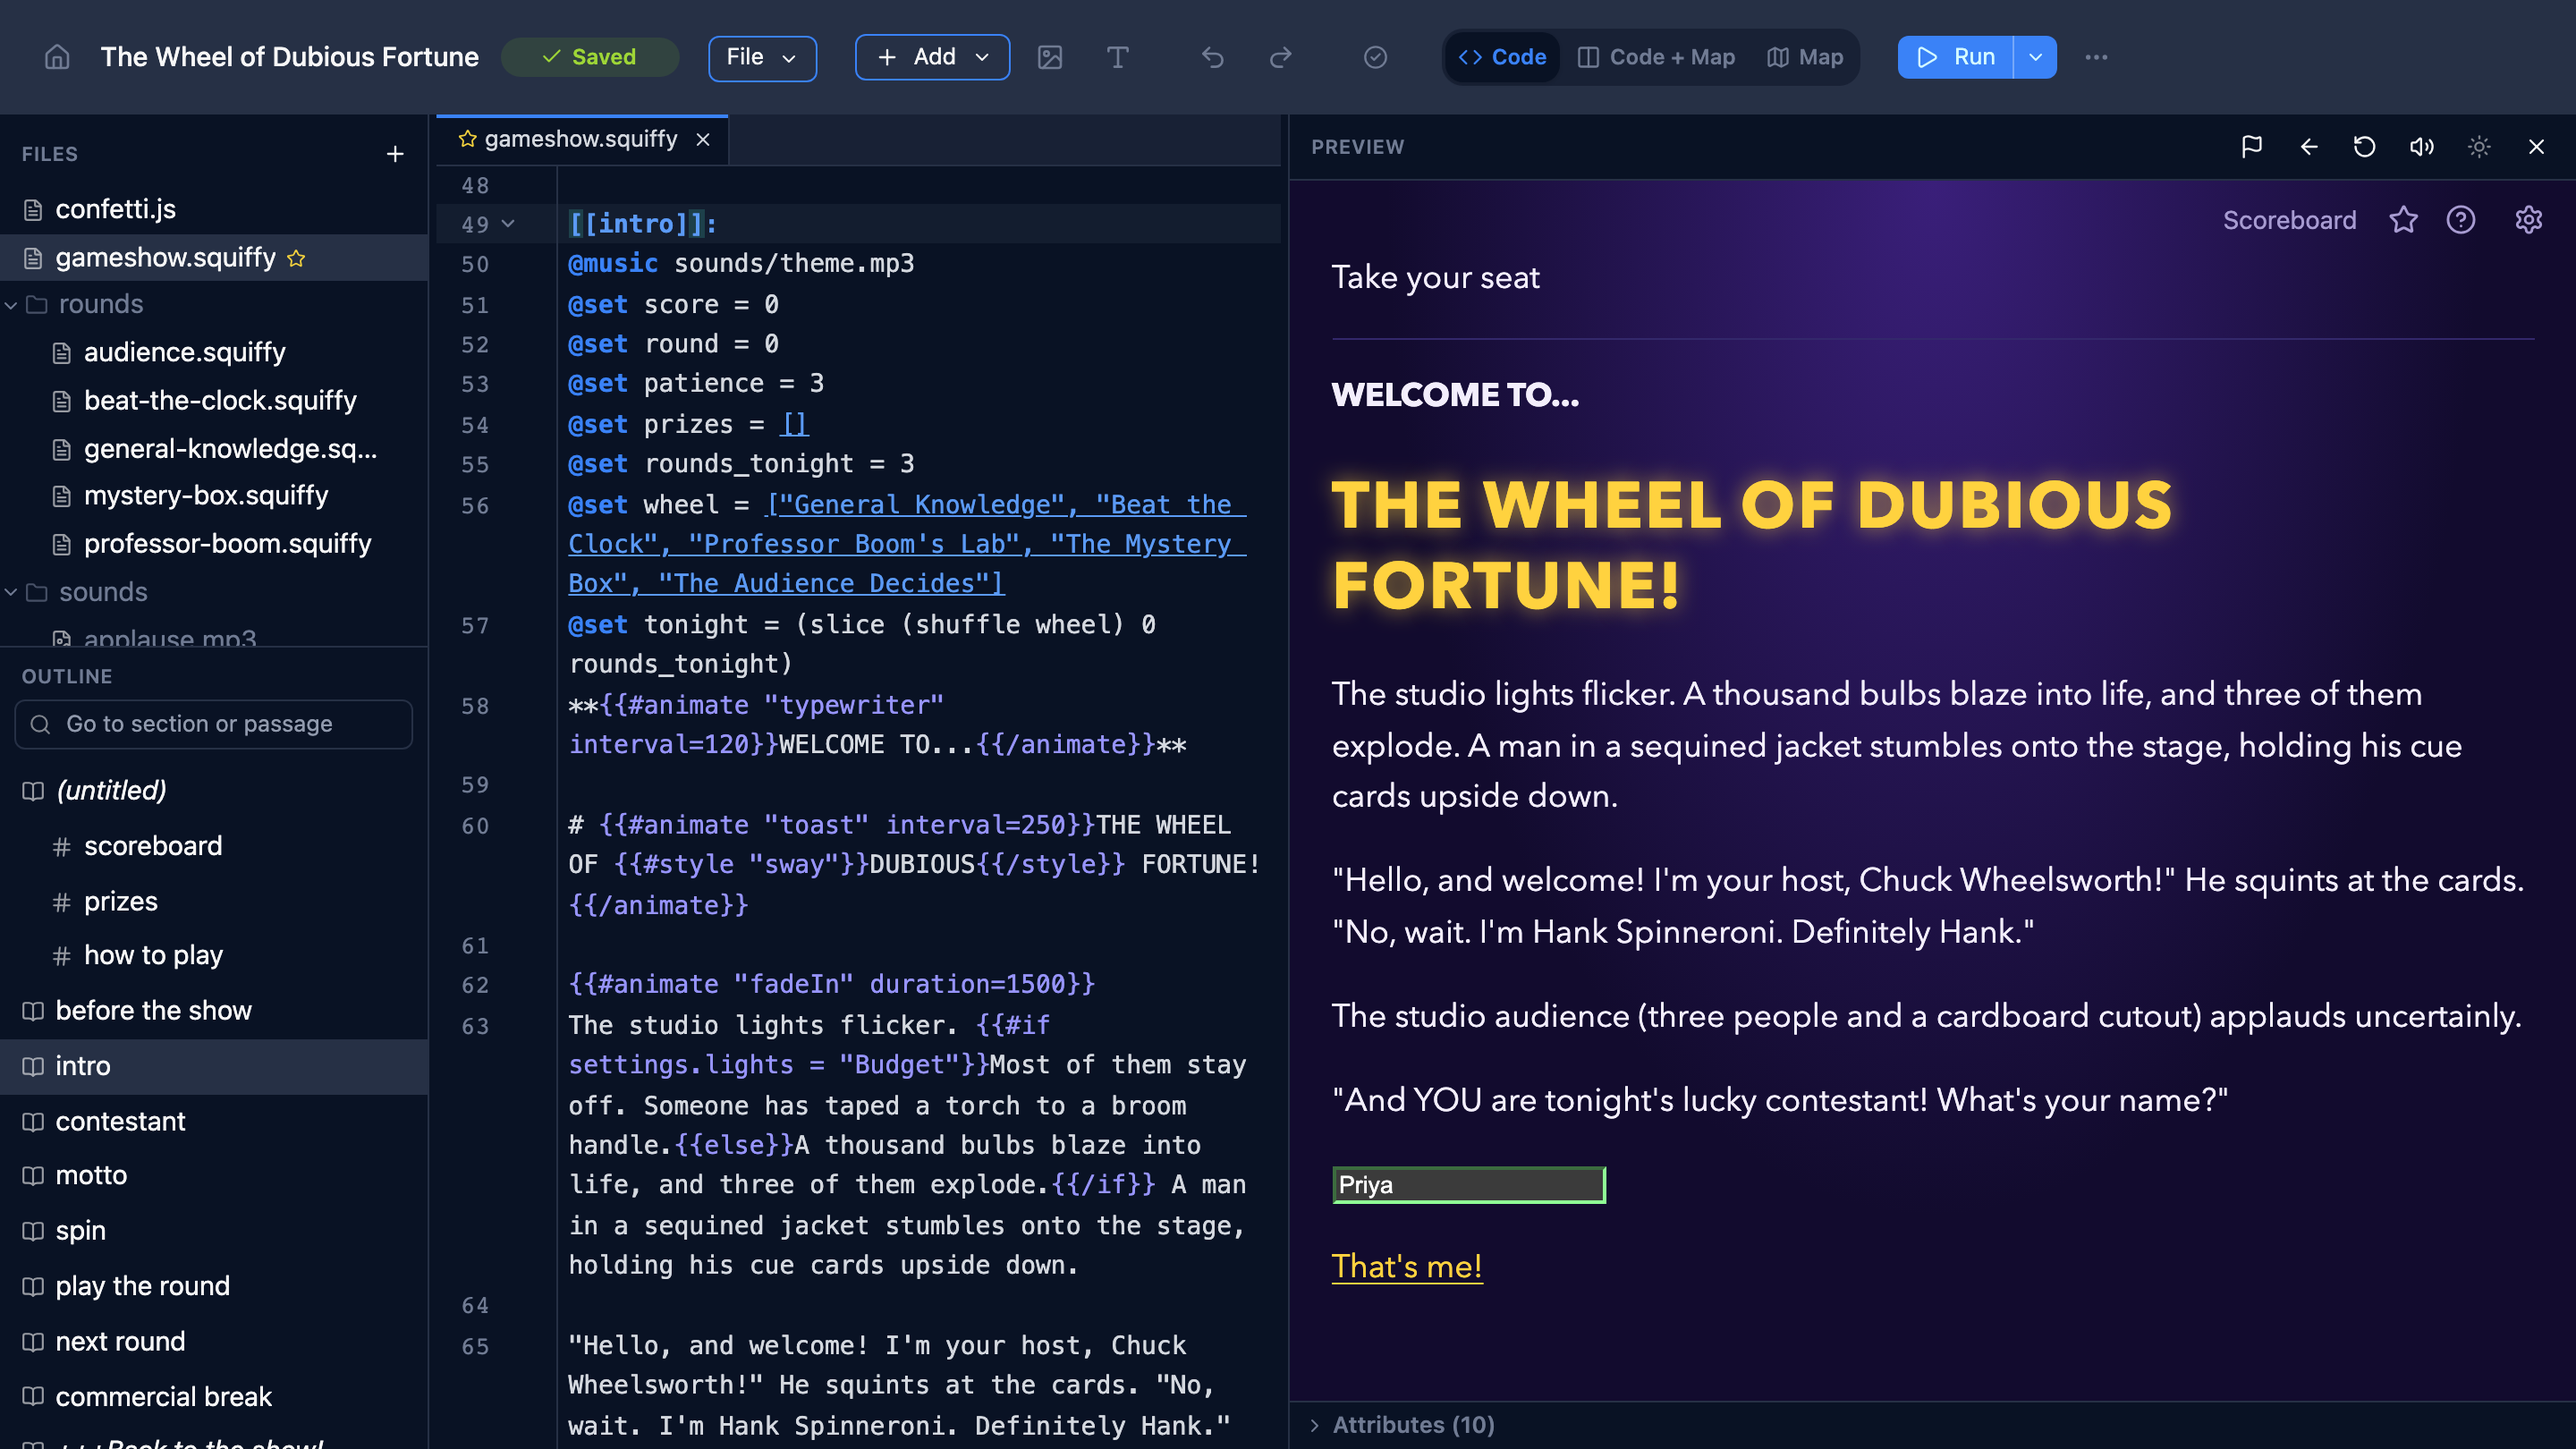
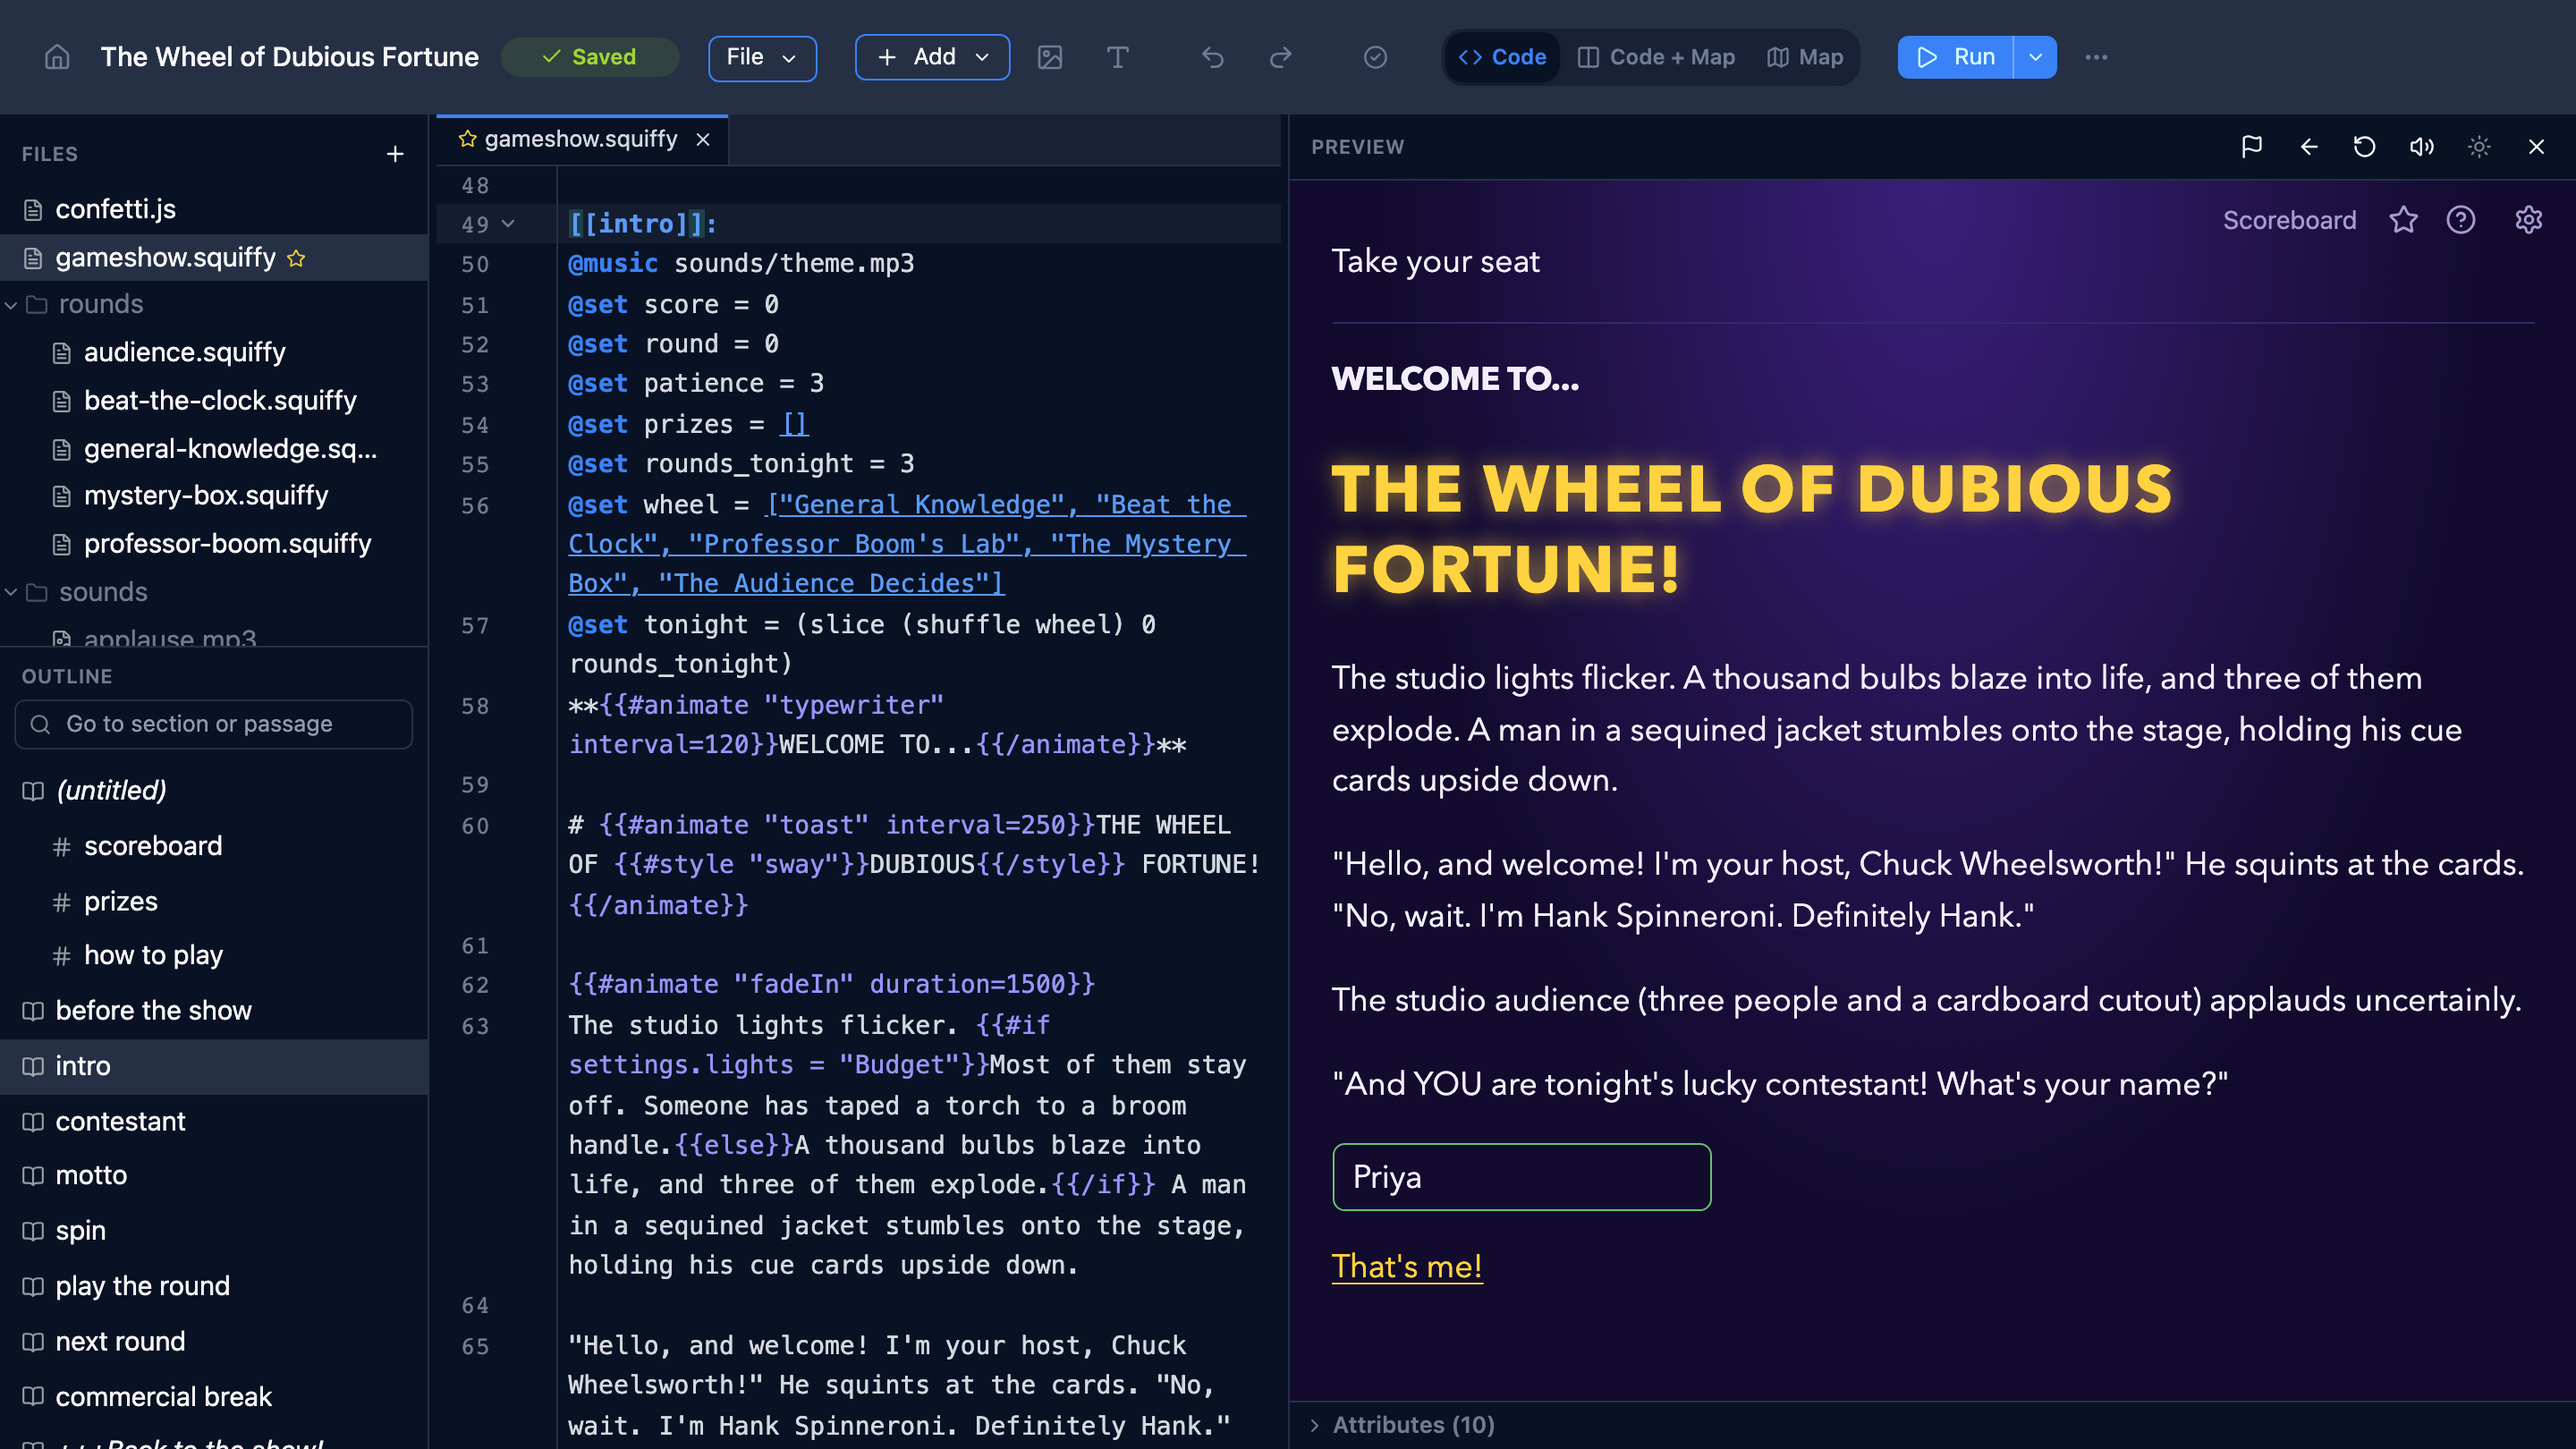
feat(runtime): style story inputs to match the story, and keep password managers out of them (#631)

diff --git a/runtime/src/squiffy.runtime.css b/runtime/src/squiffy.runtime.css
@@ -12,6 +12,8 @@
     --squiffy-muted: light-dark(#6b6f76, #9a9ca3);
     /* The lines between sections */
     --squiffy-border: light-dark(#e2e2e6, #34343a);
+    /* The edges of text boxes, lists and buttons in the story */
+    --squiffy-input-border: light-dark(#8c8f96, #6b6d75);
     --squiffy-link: light-dark(#1d5fd6, #7aa7ff);
     --squiffy-link-hover: light-dark(#0f3f99, #b0cbff);
     --squiffy-error: light-dark(#c62828, #ff7b72);
@@ -72,31 +74,132 @@ a.squiffy-link.validation-disabled
     pointer-events: none;
 }
 
-/* Invalid input field states */
+/* Text boxes, lists and buttons in the story and its panels. Without these, browsers draw them
+   in their own default styles, which don't match the story. The selectors are inside :where(), so
+   a story's own rule, such as "input { border: none; }", overrides them. */
+:where(.squiffy-output-section, .squiffy-panel) :where(
+    input:not([type=checkbox], [type=radio], [type=range], [type=color], [type=file], [type=hidden],
+        [type=button], [type=submit], [type=reset], [type=image]),
+    textarea,
+    select)
+{
+    box-sizing: border-box;
+    max-width: 100%;
+    padding: 0.3em 0.6em;
+    border: 1px solid var(--squiffy-input-border);
+    border-radius: 0.375em;
+    background-color: var(--squiffy-background);
+    color: var(--squiffy-text);
+    font: inherit;
+    line-height: 1.4;
+    transition: border-color 0.15s ease-in-out, box-shadow 0.15s ease-in-out;
+}
+
+:where(.squiffy-output-section, .squiffy-panel) :where(textarea)
+{
+    vertical-align: top;
+    resize: vertical;
+}
+
+:where(.squiffy-output-section, .squiffy-panel) :where(input, textarea)::placeholder
+{
+    color: var(--squiffy-muted);
+    opacity: 1;
+}
+
+/* A drop-down list, with its arrow drawn in the story's colours */
+:where(.squiffy-output-section, .squiffy-panel) :where(select:not([multiple], [size]))
+{
+    appearance: none;
+    padding-right: 2em;
+    background-image: linear-gradient(45deg, transparent 50%, var(--squiffy-muted) 50%),
+        linear-gradient(135deg, var(--squiffy-muted) 50%, transparent 50%);
+    background-position: calc(100% - 1.05em) 55%, calc(100% - 0.75em) 55%;
+    background-size: 0.3em 0.3em;
+    background-repeat: no-repeat;
+    cursor: pointer;
+}
+
+:where(.squiffy-output-section, .squiffy-panel) :where(
+    button, input[type=button], input[type=submit], input[type=reset])
+{
+    padding: 0.3em 0.9em;
+    border: 1px solid var(--squiffy-input-border);
+    border-radius: 0.375em;
+    background-color: color-mix(in srgb, var(--squiffy-text) 5%, var(--squiffy-background));
+    color: var(--squiffy-text);
+    font: inherit;
+    line-height: 1.4;
+    cursor: pointer;
+    transition: background-color 0.15s ease-in-out;
+}
+
+:where(.squiffy-output-section, .squiffy-panel) :where(
+    button, input[type=button], input[type=submit], input[type=reset]):where(:hover:not(:disabled))
+{
+    background-color: color-mix(in srgb, var(--squiffy-text) 12%, var(--squiffy-background));
+}
+
+/* Tick boxes, radio buttons, sliders and progress bars, in the links' colour */
+:where(.squiffy-output-section, .squiffy-panel) :where(
+    input[type=checkbox], input[type=radio], input[type=range], progress, meter)
+{
+    accent-color: var(--squiffy-link);
+}
+
+:where(.squiffy-output-section, .squiffy-panel) :where(input[type=checkbox], input[type=radio])
+{
+    width: 1em;
+    height: 1em;
+    vertical-align: -0.125em;
+}
+
+:where(.squiffy-output-section, .squiffy-panel) :where(input, textarea, select):where(:focus)
+{
+    outline: none;
+    border-color: var(--squiffy-link);
+    box-shadow: 0 0 0 0.2em color-mix(in srgb, var(--squiffy-link) 25%, transparent);
+}
+
+:where(.squiffy-output-section, .squiffy-panel) :where(input[type=checkbox], input[type=radio], input[type=range]):where(:focus),
+:where(.squiffy-output-section, .squiffy-panel) :where(
+    button, input[type=button], input[type=submit], input[type=reset]):where(:focus-visible)
+{
+    box-shadow: none;
+    outline: 2px solid var(--squiffy-link);
+    outline-offset: 2px;
+}
+
+/* Once the player has left a section, its inputs are disabled */
+:where(.squiffy-output-section, .squiffy-panel) :where(input, textarea, select, button):where(:disabled)
+{
+    opacity: 0.6;
+    cursor: default;
+}
+
+/* An input that fails validation */
 input.squiffy-invalid,
 textarea.squiffy-invalid,
 select.squiffy-invalid
 {
     border-color: var(--squiffy-error) !important;
-    box-shadow: 0 0 0 0.2rem color-mix(in srgb, var(--squiffy-error) 25%, transparent);
 }
 
-/* Valid input field states (optional, provides positive feedback) */
-input:not([disabled]):valid,
-textarea:not([disabled]):valid,
-select:not([disabled]):valid
-{
-    border-color: var(--squiffy-success);
-}
-
-/* Focus state for invalid inputs */
 input.squiffy-invalid:focus,
 textarea.squiffy-invalid:focus,
 select.squiffy-invalid:focus
 {
     outline: none;
-    border-color: var(--squiffy-error) !important;
-    box-shadow: 0 0 0 0.2rem color-mix(in srgb, var(--squiffy-error) 50%, transparent);
+    box-shadow: 0 0 0 0.2em color-mix(in srgb, var(--squiffy-error) 30%, transparent);
+}
+
+/* An input with a rule (such as required or minlength) that passes it, once the player has changed
+   it */
+:where(.squiffy-output-section, .squiffy-panel) :where(input, textarea, select):where(
+    [required], [pattern], [minlength], [min], [max], [type=email], [type=url], [type=number]):where(
+    :not(:disabled):user-valid)
+{
+    border-color: var(--squiffy-success);
 }
 
 /* Header button styles: the Back, Restart and light/dark buttons, which are icons */

diff --git a/runtime/src/inputValidation.ts b/runtime/src/inputValidation.ts
@@ -49,11 +49,33 @@ export function updateLinkStates(sectionElement: HTMLElement | null): void {
 }
 
 /**
+ * Ask browsers and password managers (1Password, LastPass, Bitwarden, Dashlane) not to offer to fill
+ * in the story's text boxes, which they take for a login or address form. A text box the author has
+ * given an autocomplete attribute is left alone, so <input autocomplete="name"> still gets offered
+ * the player's name.
+ */
+export function ignorePasswordManagers(sectionElement: HTMLElement | null): void {
+    if (!sectionElement) return;
+
+    for (const input of sectionElement.querySelectorAll<HTMLInputElement | HTMLTextAreaElement>(
+        "input:not([autocomplete]), textarea:not([autocomplete])"
+    )) {
+        input.setAttribute("autocomplete", "off");
+        input.setAttribute("data-1p-ignore", "");
+        input.setAttribute("data-lpignore", "true");
+        input.setAttribute("data-bwignore", "");
+        input.setAttribute("data-form-type", "other");
+    }
+}
+
+/**
  * Set up input validation listeners on all inputs in the given section element.
  * This should be called whenever new content is added to the section.
  */
 export function setupInputValidation(sectionElement: HTMLElement | null): void {
     if (!sectionElement) return;
+
+    ignorePasswordManagers(sectionElement);
 
     const inputs = sectionElement.querySelectorAll<HTMLInputElement | HTMLTextAreaElement | HTMLSelectElement>(
         INPUT_SELECTOR

diff --git a/runtime/src/squiffy.runtime.test.ts b/runtime/src/squiffy.runtime.test.ts
@@ -3149,6 +3149,30 @@ Go to [[next]].
     expect(content).toContain("At next or another.");
 });
 
+test("Text boxes ask password managers not to fill them in, unless they have an autocomplete attribute", async () => {
+    const script = `
+Name: <input type="text" data-attribute="player_name">
+
+Notes: <textarea data-attribute="notes"></textarea>
+
+Email: <input type="email" data-attribute="email" autocomplete="email">
+`;
+
+    const { element } = await initScript(script);
+
+    const [name, email] = element.querySelectorAll("input");
+    const notes = element.querySelector("textarea")!;
+    for (const input of [name, notes]) {
+        expect(input.getAttribute("autocomplete")).toBe("off");
+        expect(input.hasAttribute("data-1p-ignore")).toBe(true);
+        expect(input.getAttribute("data-lpignore")).toBe("true");
+        expect(input.hasAttribute("data-bwignore")).toBe(true);
+        expect(input.getAttribute("data-form-type")).toBe("other");
+    }
+    expect(email.getAttribute("autocomplete")).toBe("email");
+    expect(email.hasAttribute("data-1p-ignore")).toBe(false);
+});
+
 test("Input validation: links are disabled when required input is empty", async () => {
     const script = `
 Enter your name: <input type="text" data-attribute="player_name" required>

diff --git a/plugins/squiffy/skills/squiffy/references/styling.md b/plugins/squiffy/skills/squiffy/references/styling.md
@@ -22,7 +22,7 @@ Put a `.css` file in the story's folder. With `squiffy.json` it's included autom
 }
 ```
 
-Other colour variables: `--squiffy-muted` (header buttons, links awaiting valid input), `--squiffy-border` (lines between sections), `--squiffy-error`, `--squiffy-success` (input validation). `--squiffy-side-width` is the side panel width (16rem).
+Other colour variables: `--squiffy-muted` (header buttons, links awaiting valid input), `--squiffy-border` (lines between sections), `--squiffy-input-border` (text boxes, lists and buttons in the story, which are styled to match it; the rules are in `:where()`, so the story's own `input { ... }` overrides them), `--squiffy-error`, `--squiffy-success` (input validation). `--squiffy-side-width` is the side panel width (16rem).
 
 ## Light and dark mode
 

diff --git a/plugins/squiffy/skills/squiffy/references/player-input.md b/plugins/squiffy/skills/squiffy/references/player-input.md
@@ -17,6 +17,8 @@ Welcome, {{player_name}}!
 
 `<select data-attribute="...">` and `<textarea data-attribute="...">` work too. `data-attribute` can be a value inside an object: `data-attribute="hero.name"`.
 
+The runtime gives text boxes `autocomplete="off"` and the attributes that tell password managers (1Password, LastPass, Bitwarden, Dashlane) not to fill them in, unless the box has an `autocomplete` attribute of its own, such as `autocomplete="given-name"`.
+
 ## Going on when Enter is pressed
 
 `data-section` on an `<input>` goes to that section when the player presses Enter, like clicking a link to it; `data-passage` shows a passage. What was typed is stored first, so the section or passage can use it:
